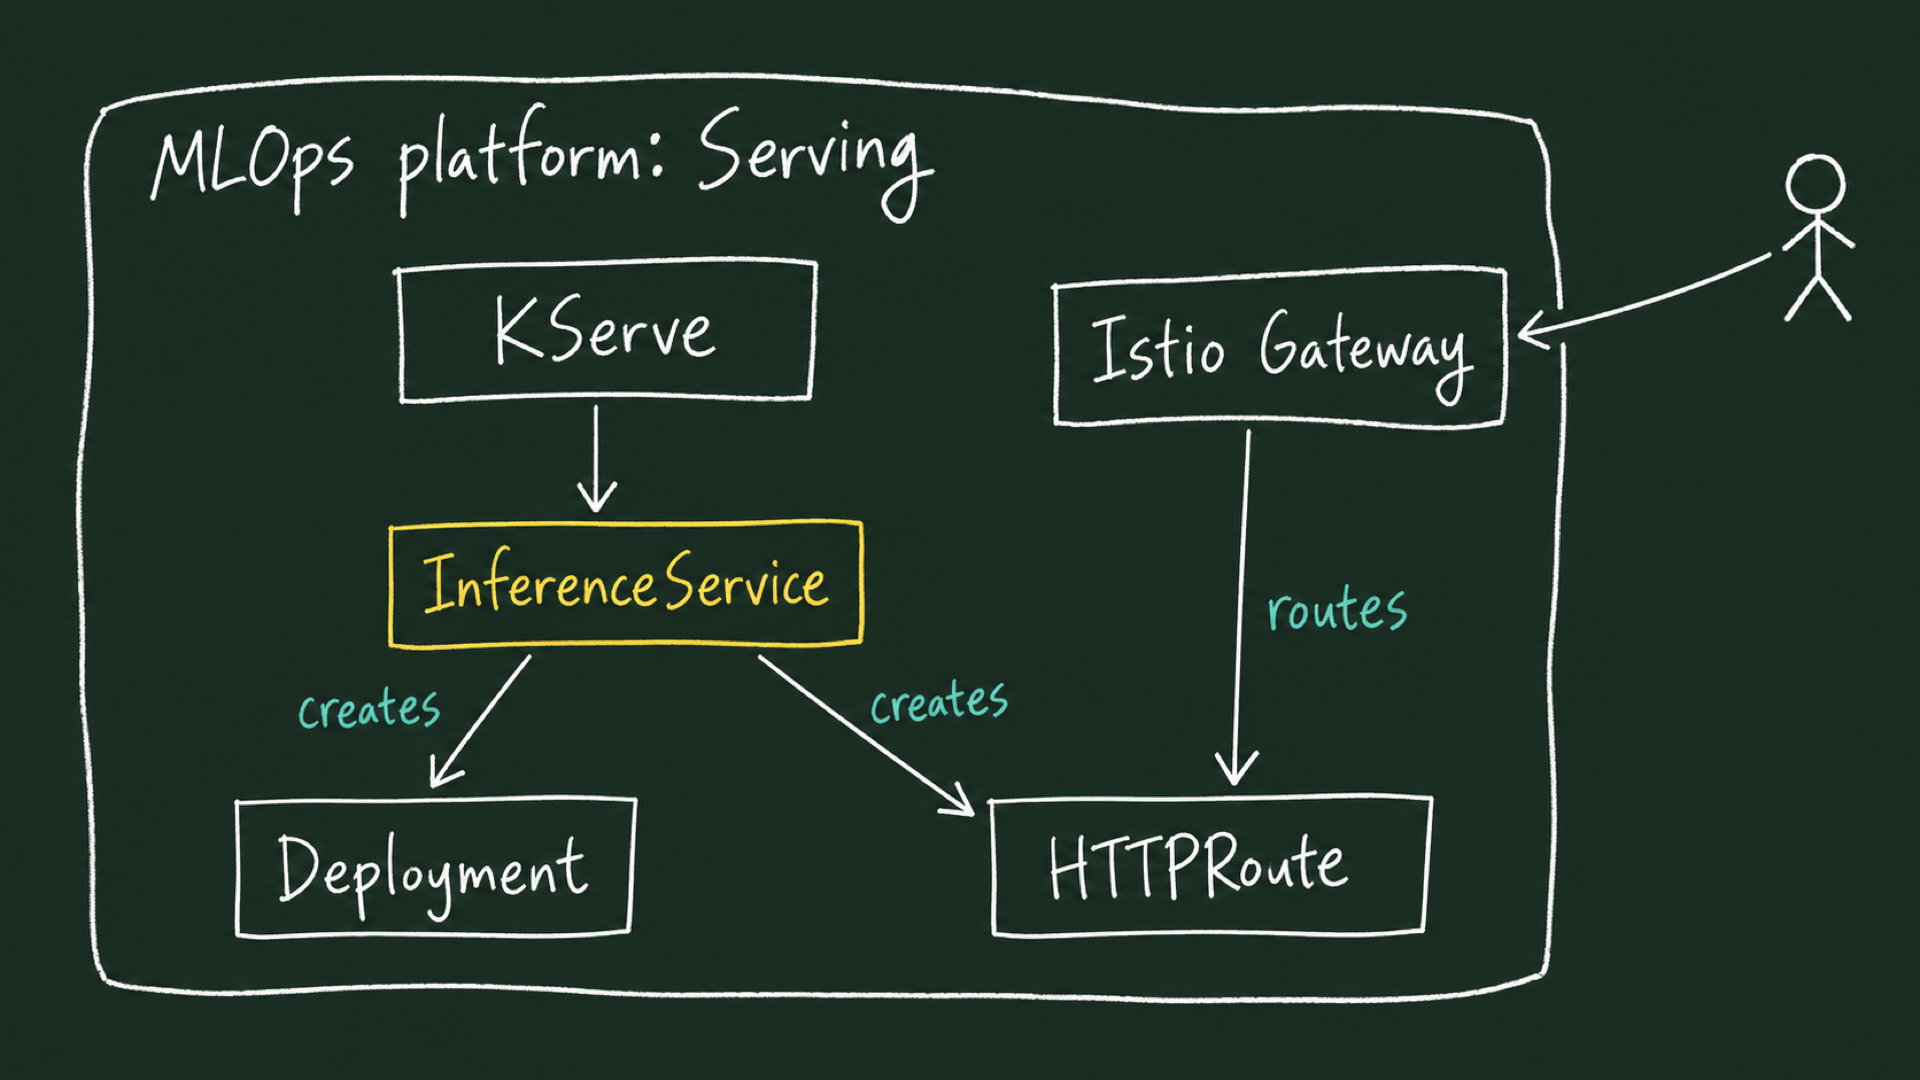
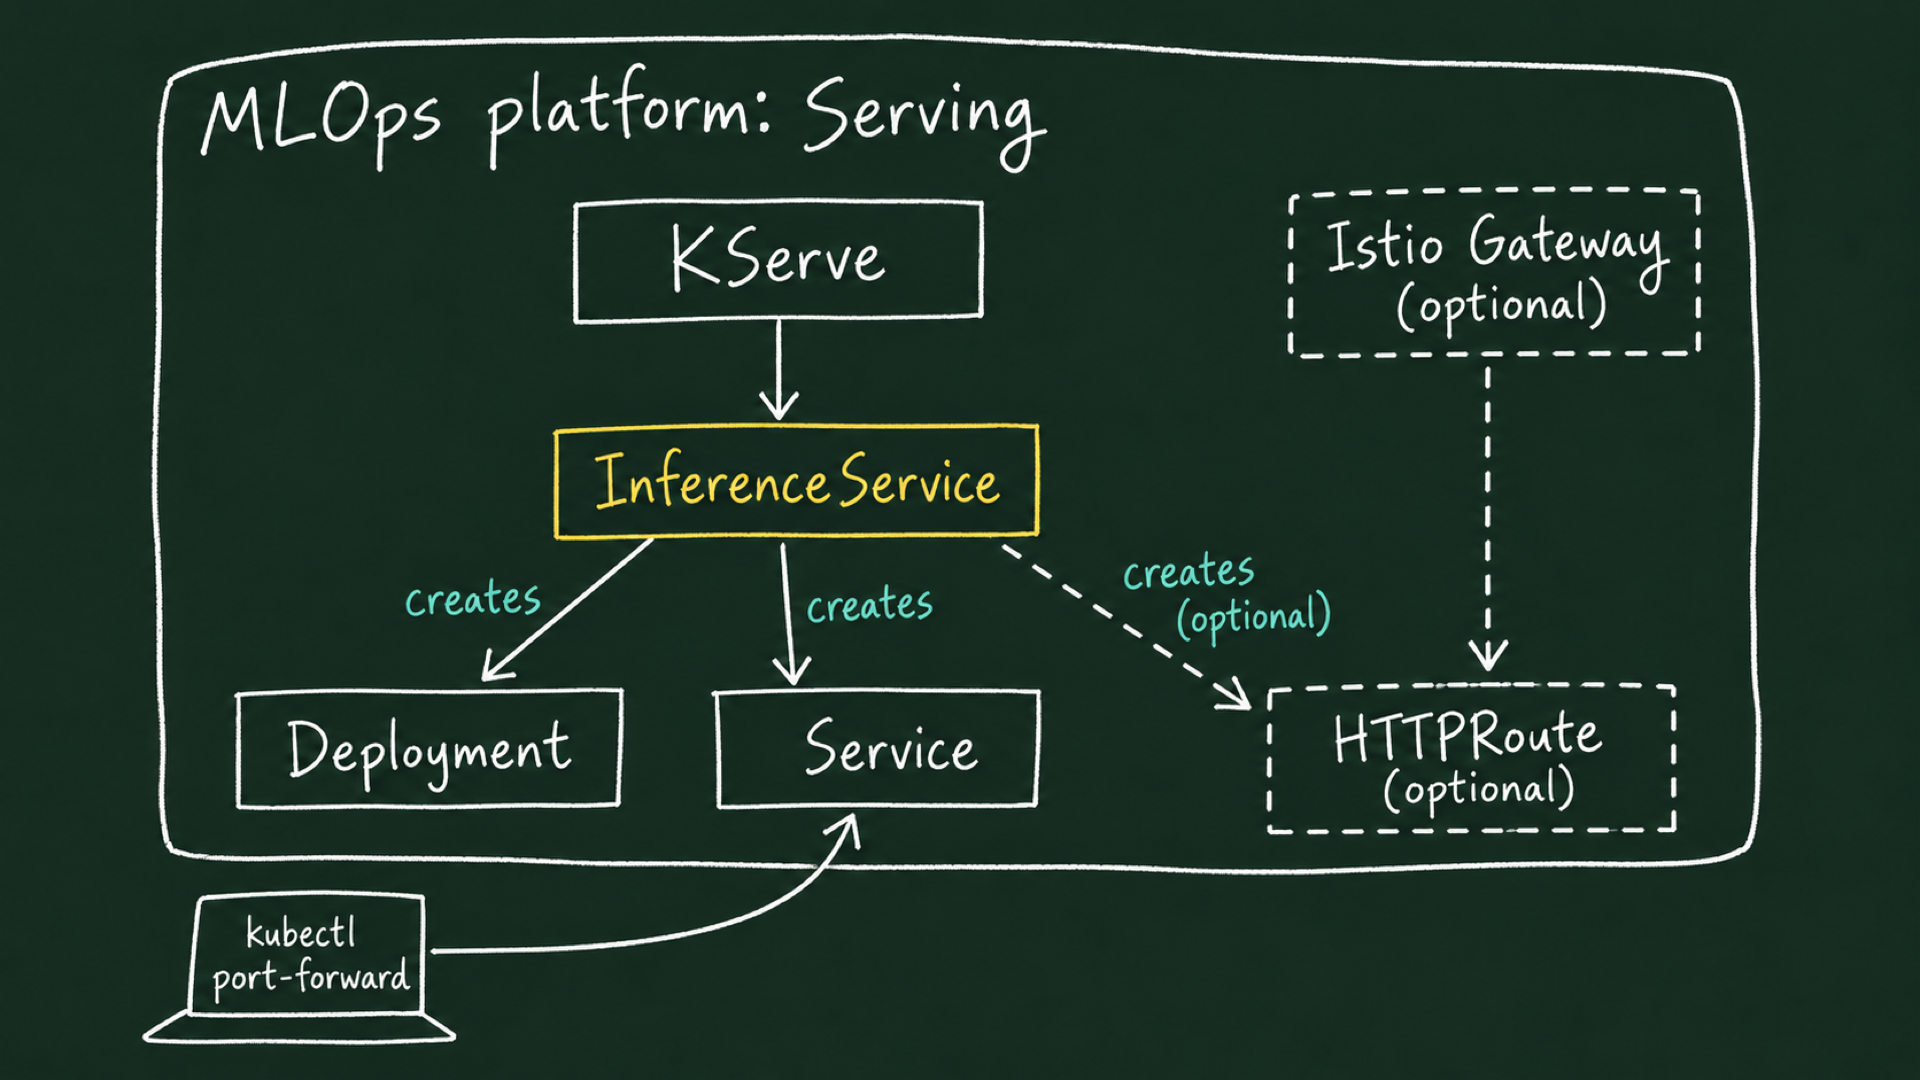
docs: feature store training flow and online store materialize diagrams, KServe diagram with optional routes
- docs 13: where the feature store sits between EDA, training, and the registry; offline vs online store table; materialize and request-time lookup with a card payment example; note that this lab's request could carry all values
- docs 12: KServe diagram marks HTTPRoute and Istio Gateway as optional, kubeflow-gateway serves only Kubeflow UIs, commands to inspect gateways and routes

Changed region(s): [[0.0312, 0.0306, 0.9688, 0.9778], [0.2812, 0.9167, 0.7812, 0.9472], [0.8125, 0.0611, 0.9062, 0.0917]]

diff --git a/mlops/ml-platform-engineering-part2/docs/12-lab1-model-serving.md b/mlops/ml-platform-engineering-part2/docs/12-lab1-model-serving.md
@@ -69,7 +69,7 @@ flowchart LR
 
 ## InferenceService 하나가 Deployment, Service, 외부 경로를 만듭니다
 
-KServe에서 사람이 쓰는 리소스는 InferenceService 하나입니다. KServe 컨트롤러가 그 선언을 읽고 실제로 도는 Kubernetes 리소스를 만듭니다. 외부 요청은 Istio Gateway로 들어와, KServe가 만든 경로(HTTPRoute 또는 Ingress)를 따라 predictor로 갑니다.
+KServe에서 사람이 쓰는 리소스는 InferenceService 하나입니다. KServe 컨트롤러가 그 선언을 읽고 실제로 도는 Kubernetes 리소스를 만듭니다. 그림의 실선은 이 Lab에서 만들어지는 리소스이고, 점선(optional)은 설정을 켜면 만들어지는 외부 경로입니다.
 
 ![KServe 추상화](../imgs/mlops-kserve-abstraction.png)
 
@@ -83,7 +83,26 @@ KServe에서 사람이 쓰는 리소스는 InferenceService 하나입니다. KSe
 4. 외부 경로를 만듭니다. `inferenceservice-config`의 `enableGatewayApi`가 `true`면 Gateway API의 HTTPRoute를, 아니면 Ingress를 만듭니다.
 5. 파드가 Ready가 되면 InferenceService의 `READY`를 `True`로 바꾸고 주소를 기록합니다.
 
-이 Lab은 맥북에서 port-forward로만 부르므로 `disableIngressCreation: true`로 4번을 껐습니다. 그래서 그림의 HTTPRoute와 Istio Gateway 경로는 실제로 만들어지지 않고, Deployment, Service, HPA만 생깁니다. 클러스터 안에서는 `status.address.url`(`http://income-classifier-predictor.kubeflow-user-example-com.svc.cluster.local`)로 부릅니다.
+이 Lab은 맥북에서 port-forward로만 부르므로 `disableIngressCreation: true`로 4번을 껐습니다. 그래서 HTTPRoute는 만들어지지 않고, Deployment, Service, HPA만 생깁니다. 클러스터 안에서는 `status.address.url`(`http://income-classifier-predictor.kubeflow-user-example-com.svc.cluster.local`)로 부릅니다.
+
+### Kubeflow 화면의 게이트웨이로는 모델을 부를 수 없습니다
+
+클러스터에는 Istio Gateway `kubeflow-gateway`가 있지만, 이 게이트웨이는 Kubeflow 화면용입니다. 경로(VirtualService)가 대시보드, Pipelines UI, 노트북, Dex 같은 화면에만 연결돼 있고 `income-classifier`로 가는 경로는 없습니다. 그래서 `http://localhost:8080`(Kubeflow 화면 port-forward)으로는 모델을 부를 수 없고, predictor Service에 직접 port-forward합니다.
+
+| 요청 | 들어가는 곳 | 이 Lab에서 |
+|---|---|---|
+| Kubeflow 화면 | `istio-ingressgateway` → `kubeflow-gateway` → 화면별 VirtualService | 사용 |
+| 모델 예측 | `kubectl port-forward` → predictor Service → 파드 | 사용 |
+| 모델 예측(외부 공개) | Istio Gateway → KServe가 만든 HTTPRoute → predictor | 사용 안 함(optional) |
+
+게이트웨이와 경로가 어떻게 연결돼 있는지는 아래 명령으로 봅니다. Istio Gateway는 두 개, Gateway API CRD는 없음, VirtualService는 화면용만 있으면 지금 설정 그대로입니다.
+
+```bash
+kubectl get gateways.networking.istio.io -A
+kubectl get virtualservices.networking.istio.io -A -o custom-columns=NS:.metadata.namespace,NAME:.metadata.name,GATEWAY:.spec.gateways,PATH:.spec.http[0].match[0].uri.prefix
+kubectl get crd | grep gateway.networking.k8s.io || echo "Gateway API CRD 없음"
+kubectl -n kubeflow get configmap inferenceservice-config -o jsonpath='{.data.ingress}'
+```
 
 ## 런타임은 모델이 저장된 환경과 맞아야 합니다
 

diff --git a/mlops/ml-platform-engineering-part2/docs/13-lab1-feature-store.md b/mlops/ml-platform-engineering-part2/docs/13-lab1-feature-store.md
@@ -23,6 +23,12 @@
 
 원본 데이터의 버전 관리(어느 날짜의 CSV로 학습했나)는 [시나리오 5](./10-lab1-experiment-lineage.md)의 MLflow 데이터셋 리니지가 맡았습니다. 피처 스토어는 그다음 단계, "모델이 실제로 받는 입력값"을 학습과 서빙 양쪽에 같은 값으로 제공하는 일을 맡습니다.
 
+플랫폼 안에서 피처 스토어가 놓이는 자리는 아래와 같습니다. EDA로 고른 피처를 피처 스토어에 저장하고, 학습은 피처 스토어에서 특정 버전의 피처를 받아 실험합니다. 가장 좋은 모델을 레지스트리에 등록할 때 어떤 피처 버전으로 학습했는지도 함께 남겨, 모델에서 피처까지 거슬러 갈 수 있게 합니다.
+
+![피처 스토어에서 학습 데이터를 가져와 실험하고 등록하는 흐름](../imgs/mlops-feature-store-training-flow.png)
+
+이 Lab의 학습 노트북(시나리오 5)은 아직 이 흐름이 아니라 원본 CSV를 직접 인코딩합니다. 이 시나리오는 피처 스토어의 저장과 조회까지 다루고, 학습을 피처 스토어에 연결하는 일은 실무에서 더할 단계로 남깁니다.
+
 ## 용어
 
 | 용어 | 뜻 | 이 Lab의 예 |
@@ -56,6 +62,17 @@
 ### 3. 서빙은 빠르게, 학습은 많이 읽습니다
 
 학습은 수만 행을 한 번에 읽고, 서빙은 요청 하나에 한 사람의 값을 수 밀리초 안에 읽어야 합니다. 한 저장소로 두 요구를 다 맞추기 어려워서 오프라인 스토어(parquet)와 온라인 스토어(Redis)를 나누고, materialize로 같은 값을 옮깁니다.
+
+| 저장소 | 쓰는 곳 | 담는 값 |
+|---|---|---|
+| 오프라인 스토어 | 학습 | 키마다 과거 값 전부(시각과 함께, 행 여러 개) |
+| 온라인 스토어 | 서빙 | 키마다 지금 값 하나(행 1개) |
+
+온라인 스토어가 쓸모 있는 것은 **예측 요청에 모델이 쓰는 값이 다 들어 있지 않을 때**입니다. 아래는 카드 결제 예입니다. 결제 요청에는 카드 번호와 금액만 있고, 모델이 학습에 쓴 "최근 7일 평균 결제액(`avg_7d`)"은 없습니다. 스케줄러가 오프라인 스토어의 최신 값을 주기적으로 온라인 스토어에 옮겨 두고, 예측 서버가 카드 번호로 그 값을 찾아 요청 값과 함께 모델에 넘깁니다. 초 단위로 최신 값이 필요하면 이벤트 스트림이 온라인 스토어에 바로 넣습니다.
+
+![오프라인 스토어 값을 주기적으로 온라인 스토어에 옮기고 서빙이 꺼내 쓰는 흐름](../imgs/mlops-feature-store-materialize.png)
+
+이 Lab의 소득 데이터는 요청하는 쪽이 8개 값을 모두 알 수 있어서, 요청에 값을 담아 보내면 온라인 스토어 없이도 서빙됩니다([시나리오 7](./12-lab1-model-serving.md)). 실습의 `predict(person_id)`는 온라인 스토어가 하는 일을 보이려고 키만 받게 만든 구성입니다.
 
 ### 4. 다른 팀과 다른 모델이 피처를 다시 씁니다
 
